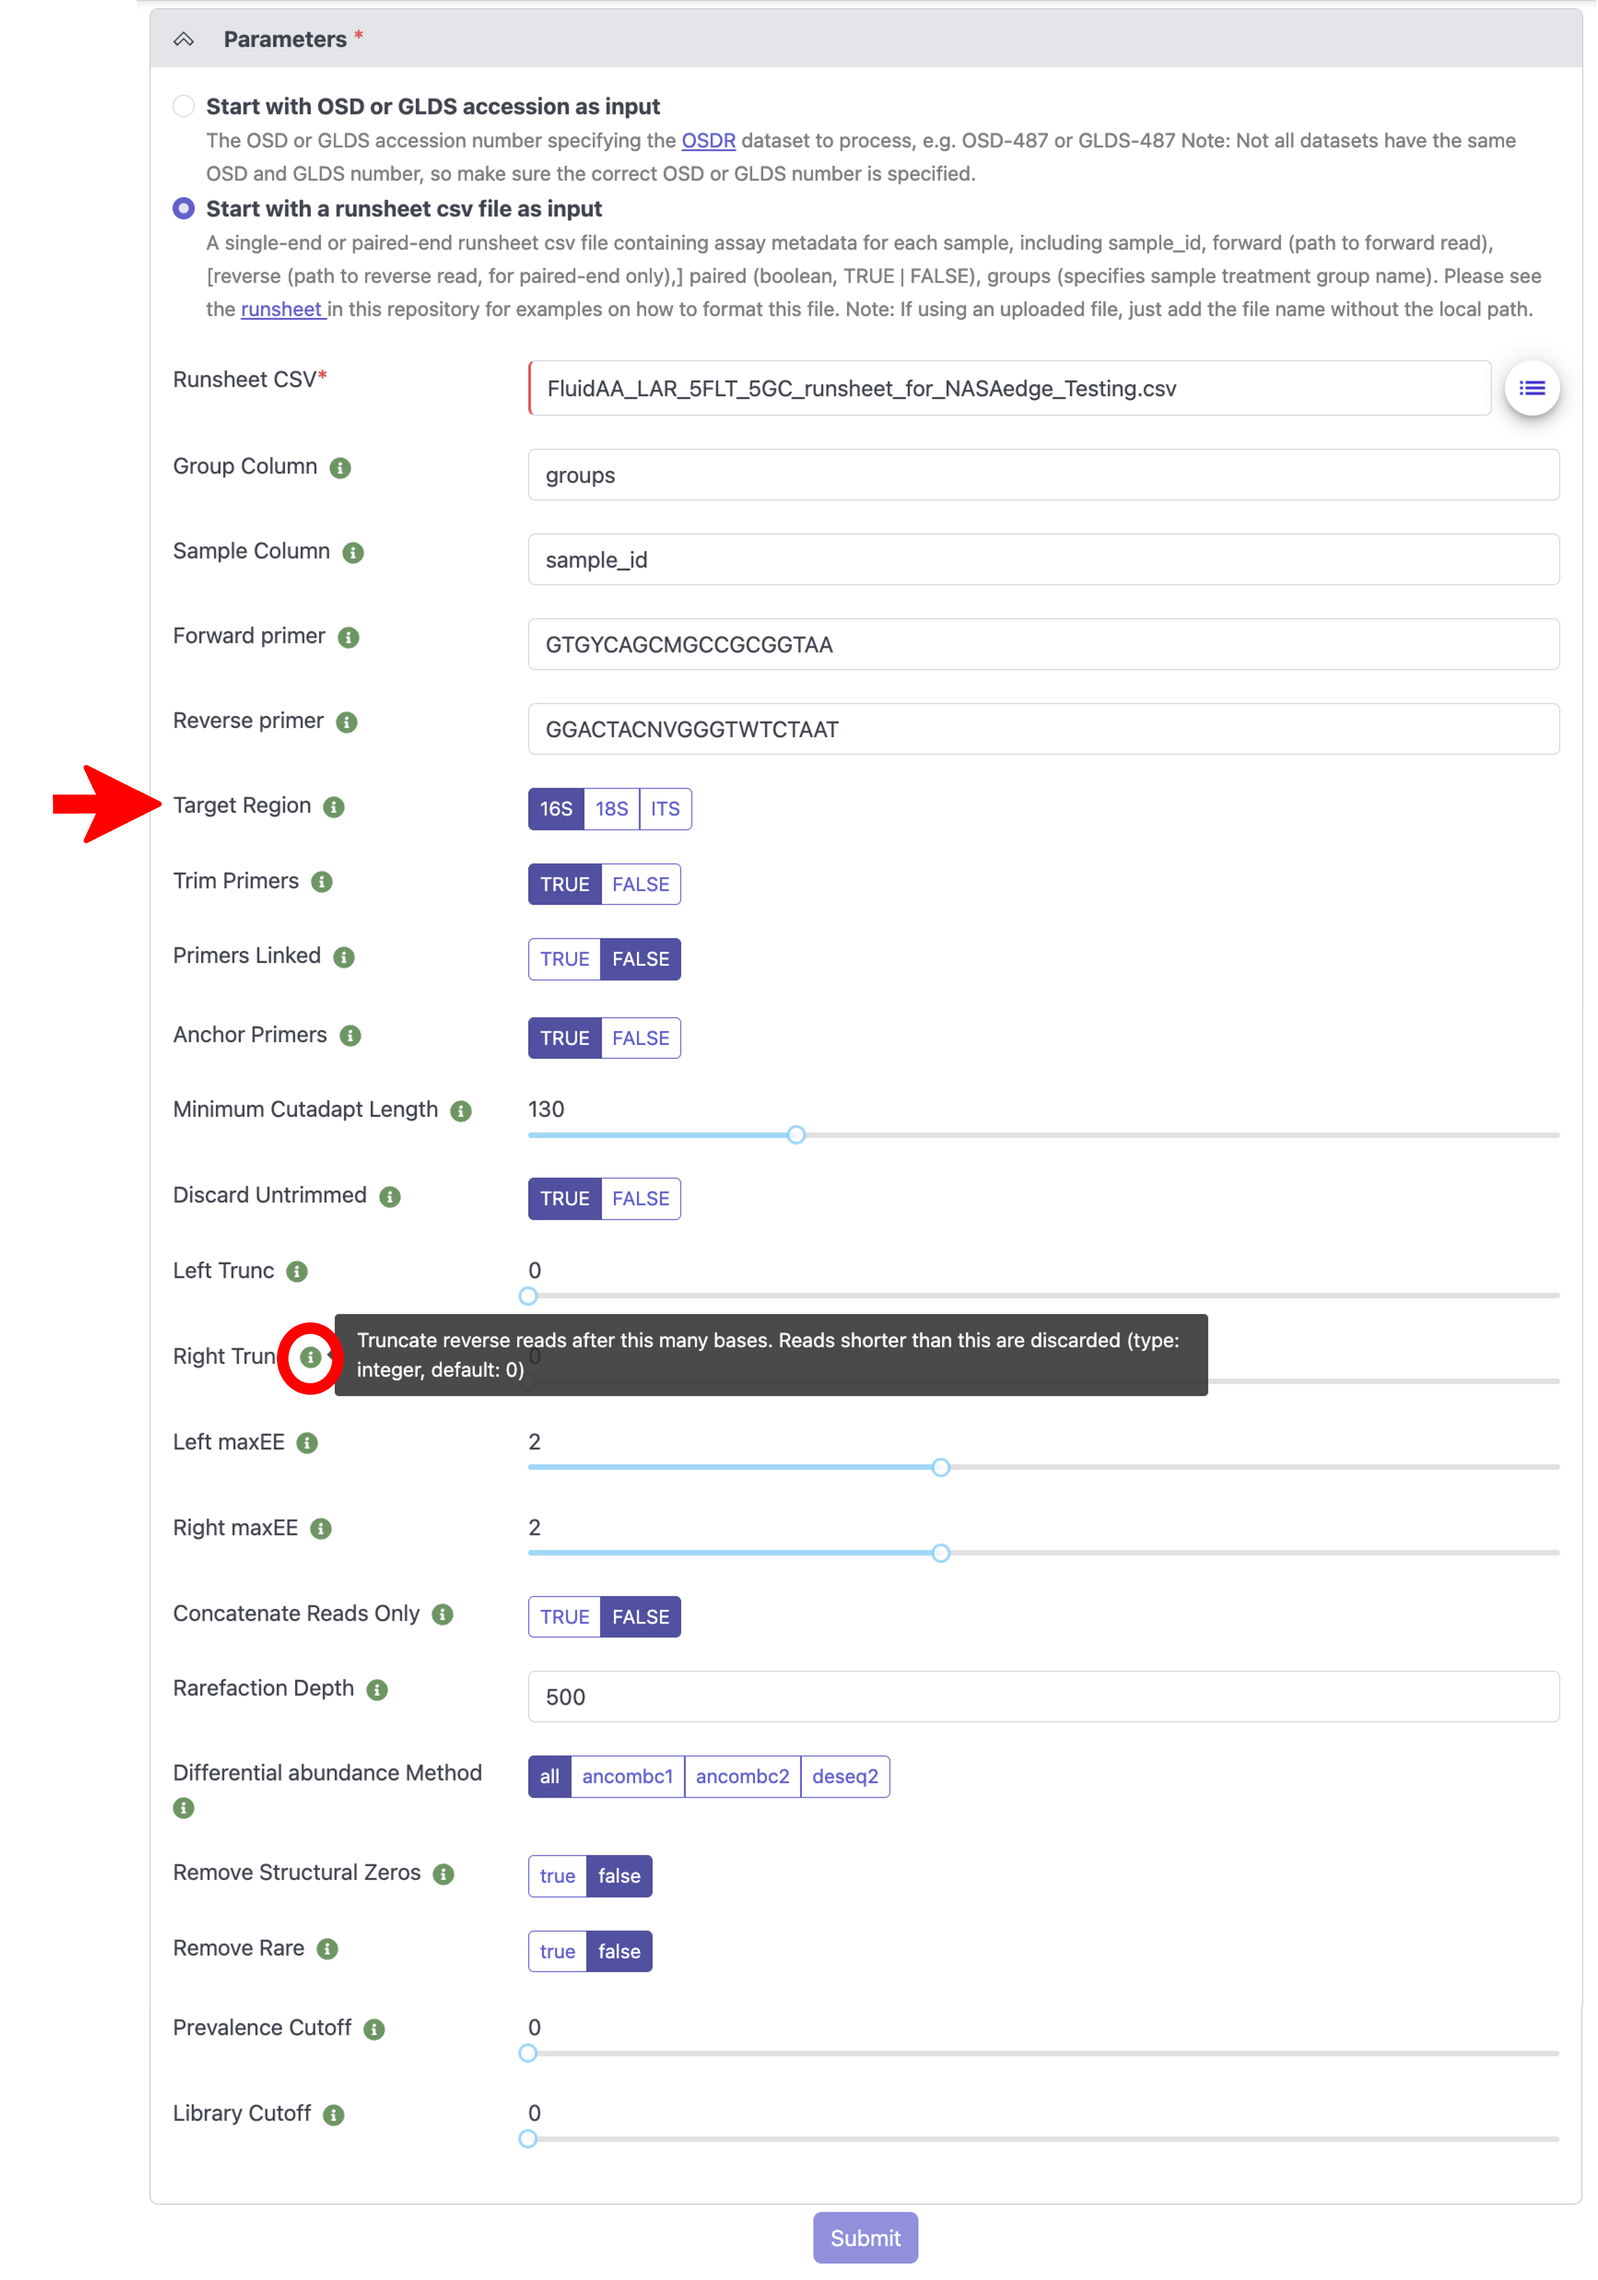
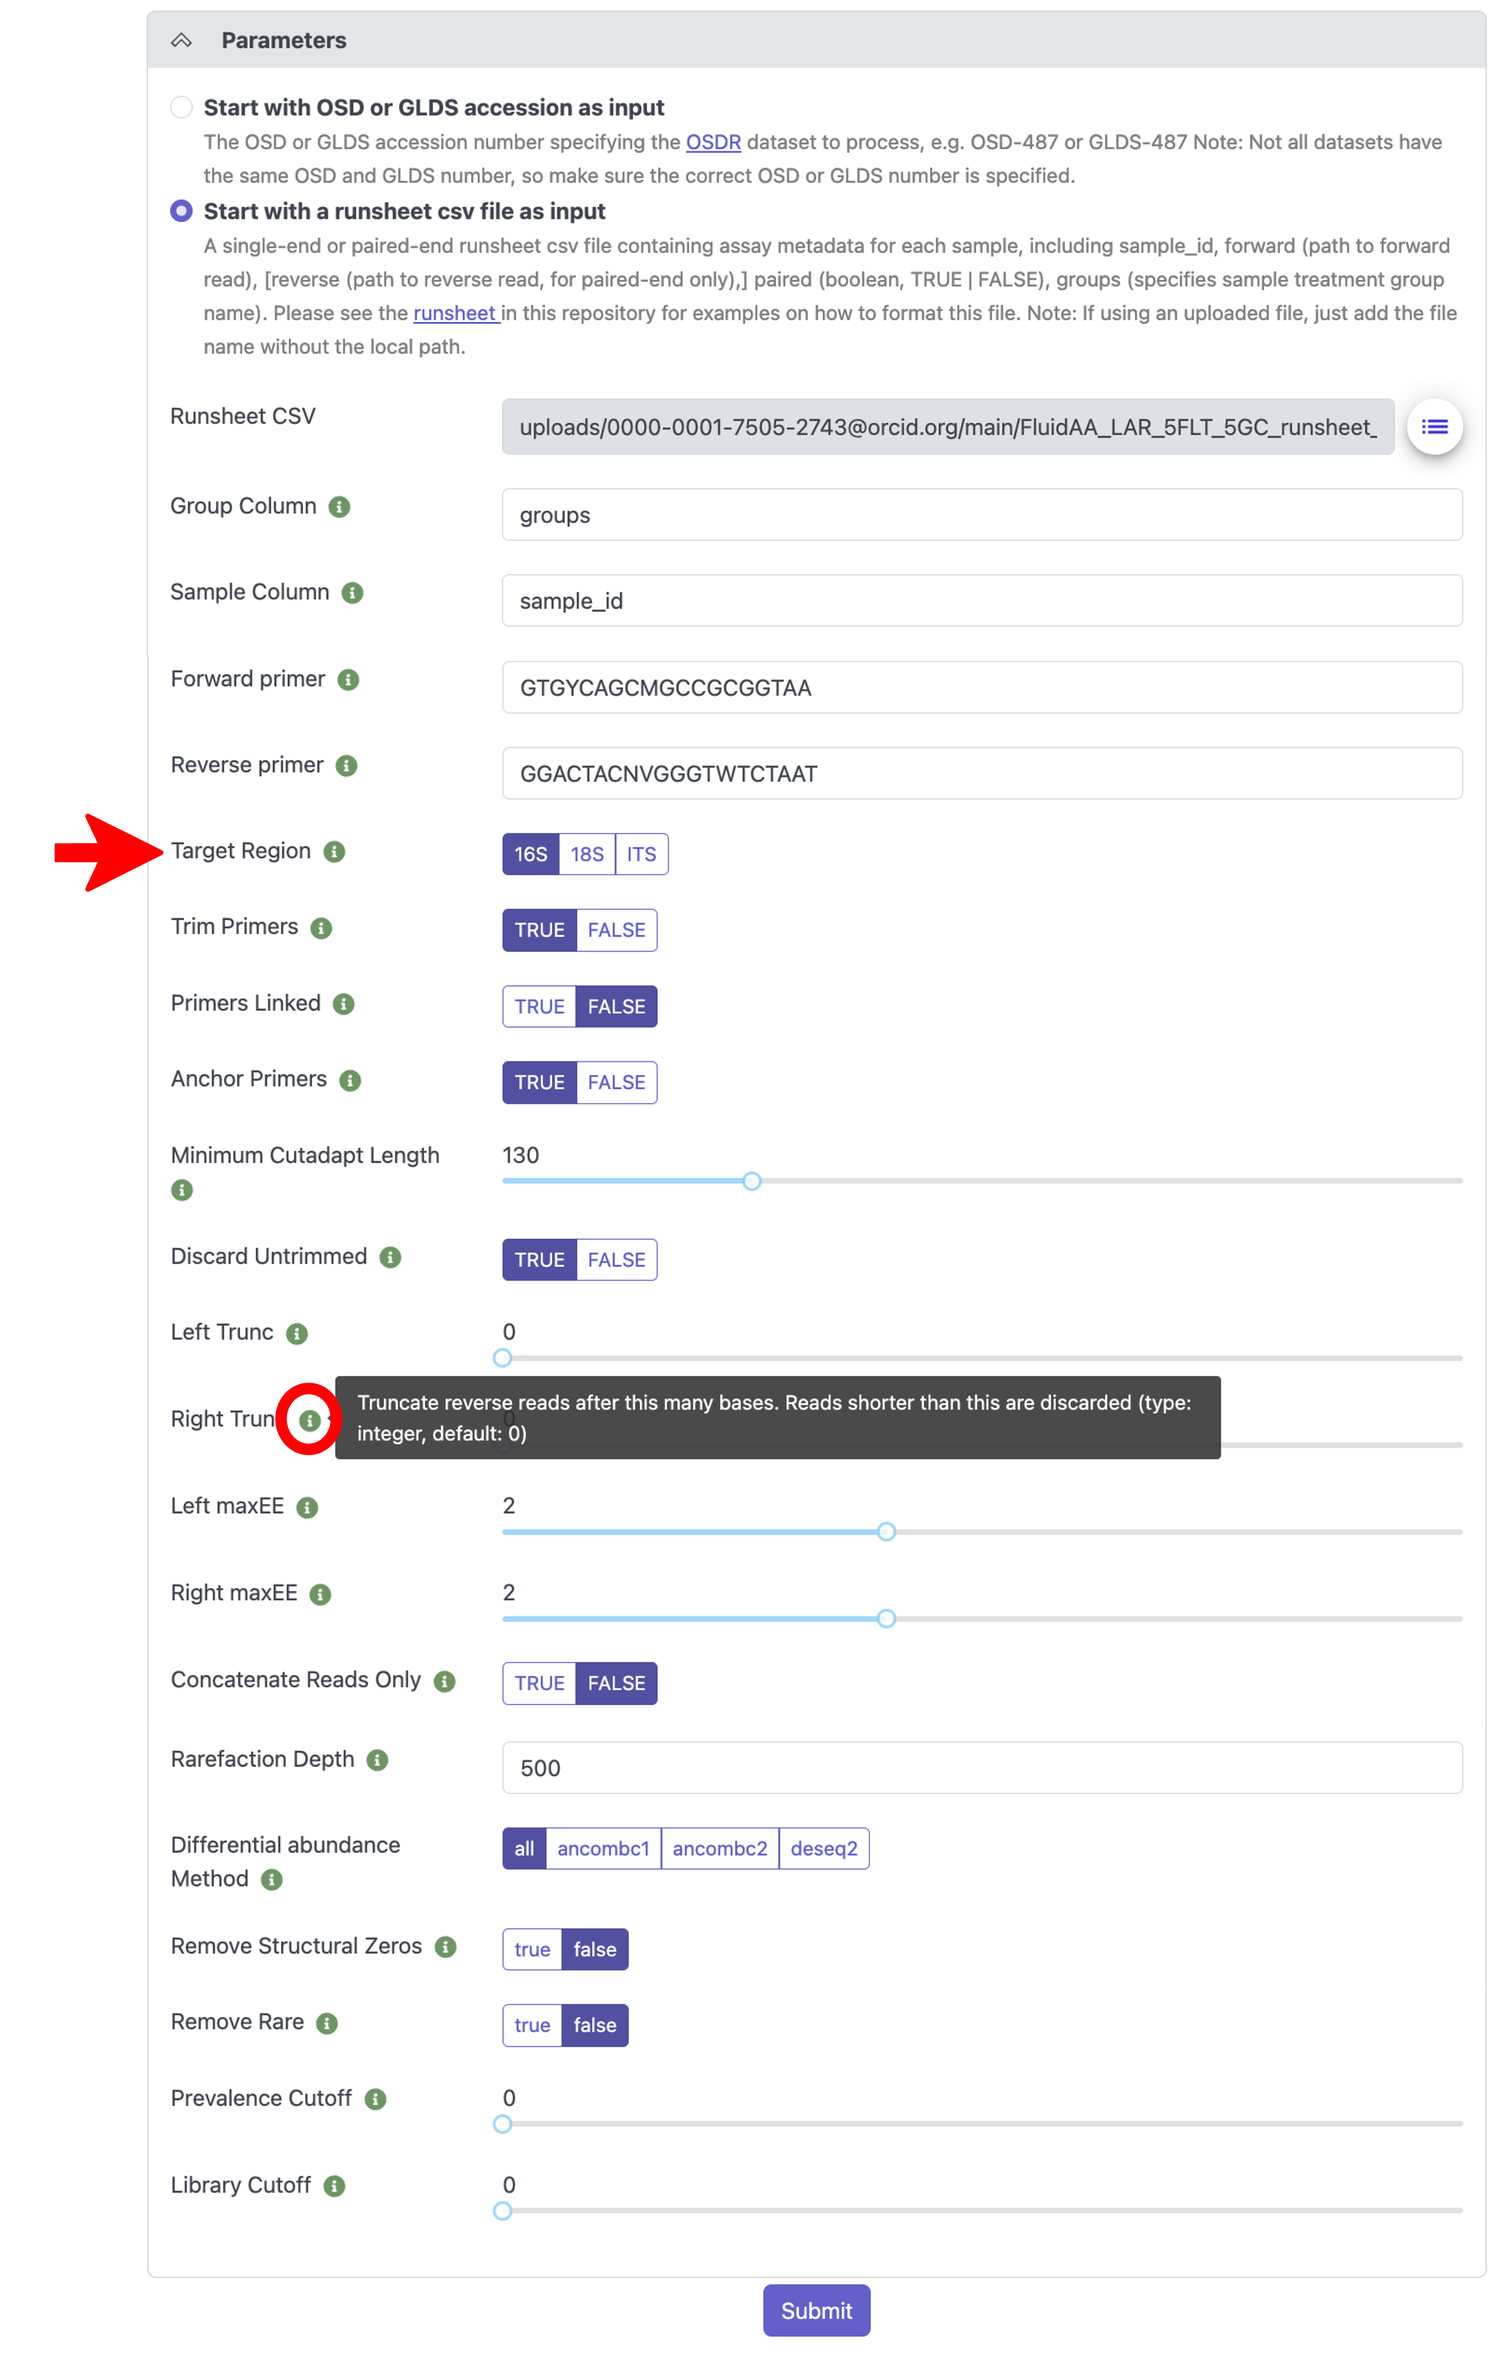
updating amp seq wf guide

Changed region(s): [[0.031, 0.0, 0.9927, 0.931], [0.4964, 0.962, 0.5894, 0.993], [0.3102, 0.8999, 0.3412, 0.931]]

diff --git a/source/pages/guides/amp_seq_wf.md b/source/pages/guides/amp_seq_wf.md
@@ -16,8 +16,8 @@
 
 ## Process an OSD dataset
 
-1. To process a dataset hosted on OSDR, navigate to the [OSDR repository](https://osdr.nasa.gov/bio/repo/) and search for the amplicon sequencing dataset you want to process using the free text search bar at the top of the page. Note the OSD number of the dataset you want to process as shown below:
-   *Note: If you are unfamiliar with OSDR, visit the [OSDR Tutorials](https://osdr-tutorials.readthedocs.io/en/latest/) page to learn how to [Access Data in the Open Science Data Repository](https://osdr-tutorials.readthedocs.io/en/latest/pages/guides/access_osdr_data.html) and how to [Navigate an OSDR Study Page](https://osdr-tutorials.readthedocs.io/en/latest/pages/guides/navigate_an_osdr_study_page.html).* 
+1. To process a dataset hosted on OSDR, navigate to the [OSDR repository](https://osdr.nasa.gov/bio/repo/) and search for the amplicon sequencing dataset you want to process using the free text search bar at the top of the page. Note the OSD number of the dataset you want to process as shown below:  
+   > *Note: If you are unfamiliar with OSDR, visit the [OSDR Tutorials](https://osdr-tutorials.readthedocs.io/en/latest/) page to learn how to [Access Data in the Open Science Data Repository](https://osdr-tutorials.readthedocs.io/en/latest/pages/guides/access_osdr_data.html) and how to [Navigate an OSDR Study Page](https://osdr-tutorials.readthedocs.io/en/latest/pages/guides/navigate_an_osdr_study_page.html).* 
 
 ```{image} ../../_static/images/amp_seq_wf/find_OSD_dataset.png
 :alt: Find the OSD dataset you want to process
@@ -31,16 +31,16 @@
 :width: 800px
 ```
 
-3. Under the "Parameters" section, select the amplicon Target Region used for processing, which can be found on the OSD study page under Assay(s) -> Technology for the select dataset as shown below:
-   *Note that some amplicon sequencing datasets on OSDR contain multiple sets of sequencing data, each with a different amplicon target region used, so be sure to select the target region you want to process on the NASA EDGE platform.*    
+3. Under the "Parameters" section, select the amplicon Target Region used for processing, which can be found on the OSD study page under Assay(s) -> Technology for the select dataset as shown below:  
+   > *Note that some amplicon sequencing datasets on OSDR contain multiple sets of sequencing data, each with a different amplicon target region used, so be sure to select the target region you want to process on the NASA EDGE platform.*    
 
 ```{image} ../../_static/images/amp_seq_wf/OSD_amp_target_region.png
 :alt: Select the amplicon Target Region on NASA EDGE to match the one used for the OSD dataset on OSDR
 :width: 800px
 ```
 
-4. All other parameters are set to default values but can be modified. If you are unsure what a specific parameter does, hover over the green "i" icon next to the parameter name for more information, as shown below. If you want to re-process an OSD dataset using the exact parameters that were used to generate the GeneLab processed data on the OSDR repository, the parameter values used can be found in the processing info directory on the OSD study page, which can be downloaded under Files -> GeneLab Processed Diversity Amplicon Files -> Processing Info -> \*processing_info.zip, as shown below.
-   *Note that the parameters values in the example below were set to match what was used to generate the processed data for this dataset in the OSDR repository.*
+4. All other parameters are set to default values but can be modified. If you are unsure what a specific parameter does, hover over the green "i" icon next to the parameter name for more information, as shown below. If you want to re-process an OSD dataset using the exact parameters that were used to generate the GeneLab processed data on the OSDR repository, the parameter values used can be found in the processing info directory on the OSD study page, which can be downloaded under Files -> GeneLab Processed Diversity Amplicon Files -> Processing Info -> \*processing_info.zip, as shown below.  
+   > *Note that the parameters values in the example below were set to match what was used to generate the processed data for this dataset in the OSDR repository.*
 
 ```{image} ../../_static/images/amp_seq_wf/OSD_parameter_selection.png
 :alt: Parameter selection on NASA EDGE and location of processing info on OSDR repository
@@ -64,8 +64,8 @@
 :width: 800px
 ```
 
-3. Open the example runsheet on your local computer and fill in the metadata columns with your sample info. A description of what should be included in each column can be found on GitHub [here](https://github.com/nasa/GeneLab_AmpliconSeq_Workflow/tree/main/examples/runsheet#required-columns). An example of a completed runsheet csv file for a paired-end dataset is shown below:
-   *Note: The "forward" and "reverse" (PE data only) columns should only include the forward and reverse fastq file names, respectively, for each respective sample. Make sure the sample, file, and group names do not contain any spaces or weird characters.*
+3. Open the example runsheet on your local computer and fill in the metadata columns with your sample info. A description of what should be included in each column can be found on GitHub [here](https://github.com/nasa/GeneLab_AmpliconSeq_Workflow/tree/main/examples/runsheet#required-columns). An example of a completed runsheet csv file for a paired-end dataset is shown below:  
+   > *Note: The "forward" and "reverse" (PE data only) columns should only include the forward and reverse fastq file names, respectively, for each respective sample. Make sure the sample, file, and group names do not contain any spaces or weird characters.*
 
 ```{image} ../../_static/images/amp_seq_wf/example_runsheeet.png
 :alt: Completed example runsheet csv file for a paired-end dataset
@@ -76,26 +76,33 @@
 
 5. Upload your runsheet csv file and your forward and reverse (for PE datasets only) fastq files to the [NASA EDGE platform](https://nasa-dev.edgebioinformatics.org/) by following the "Upload data" instructions in the {doc}`set_up` guide.
 
-6. Once your runsheet and fastq files are successfully uploaded, navigate to the [AmpIllumina workflow](https://nasa-dev.edgebioinformatics.org/workflow/nasa) on the NASA EDGE platform and type in a Project/Run Name for your project (required) and an optional Description, then under the "Parameters" section, select "Start with a runsheet csv file as input", and for the "Runsheet CSV" parameter, select the runsheet csv file you uploaded in step 5 from the drop-down menu. Next, input the forward and reverse primer sequences used to amplify the amplicon that was sequenced in your dataset, as shown in the example below.
-   *Note that the "Group Column" and "Sample Column" parameters will only need to be modified if you did not use the example runsheet csv file specified in steps 1 - 3 above.*
+6. Once your runsheet and fastq files are successfully uploaded, navigate to the [AmpIllumina workflow](https://nasa-dev.edgebioinformatics.org/workflow/nasa) on the NASA EDGE platform and type in a Project/Run Name for your project (required) and an optional Description, then under the "Parameters" section, select "Start with a runsheet csv file as input", and for the "Runsheet CSV" parameter, click on the drop-down icon to open the "Select a file" window as shown below. In the "Select a file" pop-up windown, you can select the "publicdata" folder to access publicly available datasets or you can navigate to your uploaded files by selecting the "uploads" folder -> your orcid folder -> then the "main" folder. Once in the main folder you will see all CSV files that you have uploaded to the platform. Select the runsheet csv file you uploaded in step 5. You will then see the selected runsheet populate the "Runsheet CSV" parameter of the workflow as shown below.
 
-```{image} ../../_static/images/amp_seq_wf/input_runsheet_info.png
-:alt: Input the non-OSD dataset information into the NASA EDGE platform
+```{image} ../../_static/images/amp_seq_wf/select_runsheet.png
+:alt: Input the Project/Run name and select the runsheet csv file from the drop-down menu on the NASA EDGE platform
+:width: 800px
+```
+   
+7. Next, input the forward and reverse primer sequences used to amplify the amplicon that was sequenced in your dataset, as shown in the example below.  
+   > *Note that the "Group Column" and "Sample Column" parameters will only need to be modified if you did not use the example runsheet csv file specified in steps 1 - 3 above.*
+
+```{image} ../../_static/images/amp_seq_wf/input_primers.png
+:alt: Input the forward and reverse primer sequences used to amplify the amplicon into the NASA EDGE platform
 :width: 800px
 ```
 
-7. Under the "Parameters" section, select the amplicon Target Region that was amplified and sequenced in the dataset you're processing. All other parameters are set to default values but can be modified. If you are unsure what a specific parameter does, hover over the green "i" icon next to the parameter name for more information, as shown below.
+8. Under the "Parameters" section, select the amplicon Target Region that was amplified and sequenced in the dataset you're processing. All other parameters are set to default values but can be modified. If you are unsure what a specific parameter does, hover over the green "i" icon next to the parameter name for more information, as shown below.
 
 ```{image} ../../_static/images/amp_seq_wf/runsheet_parameter_selection.png
 :alt: Amplicon target region and parameter selection on NASA EDGE
 :width: 800px
 ```
    
-8. When you are satisfied with your parameter selection, click the "Submit" button at the bottom to submit your job to the processing queue.
+9. When you are satisfied with your parameter selection, click the "Submit" button at the bottom to submit your job to the processing queue.
 
-9. To check the status of your submitted job, following the instructions in the {doc}`check_run_status` tutorial.
+10. To check the status of your submitted job, following the instructions in the {doc}`check_run_status` tutorial.
 
-10. Once your job is complete, you can view and download all output files and visualizations by following the instructions in the [View and download output files](#view-and-download-output-files) section below. 
+11. Once your job is complete, you can view and download all output files and visualizations by following the instructions in the [View and download output files](#view-and-download-output-files) section below. 
 
 ## View and download output files
 
